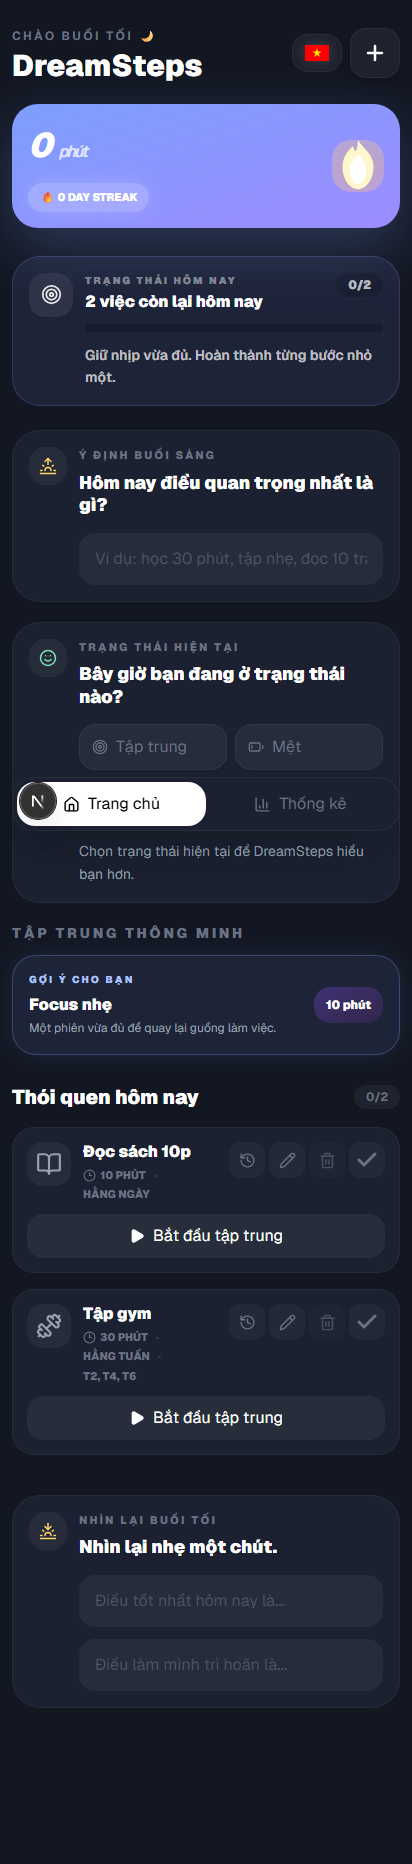
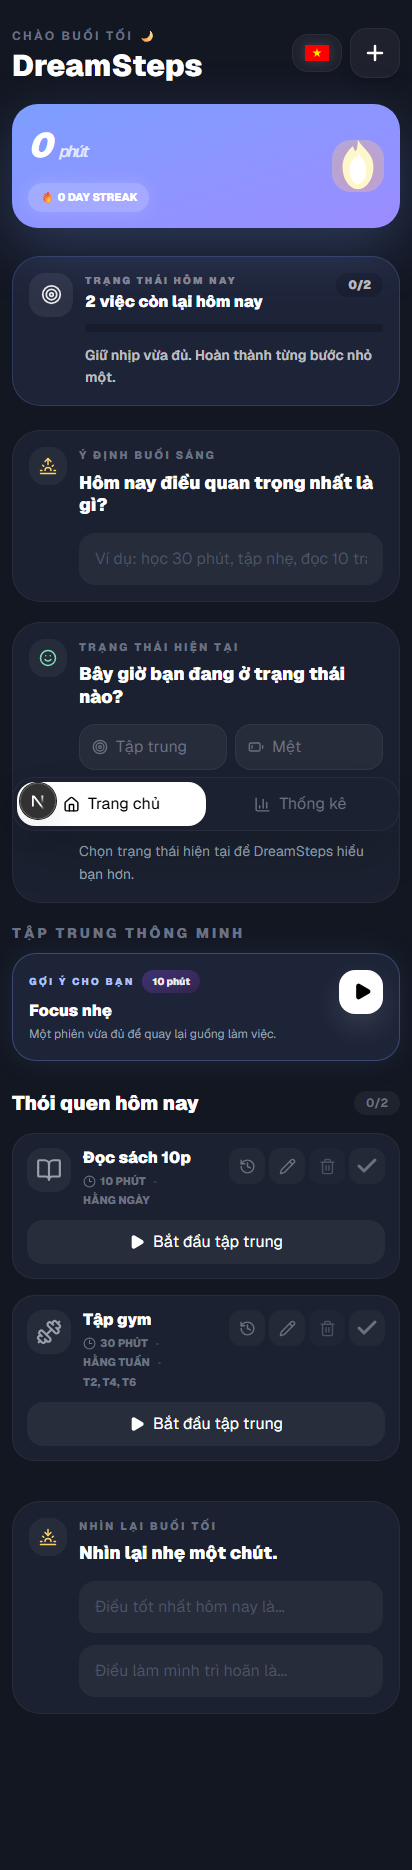
Polish smart focus CTA

diff --git a/components/SmartFocusCard.tsx b/components/SmartFocusCard.tsx
@@ -3,6 +3,7 @@ import { memo } from "react";
 
 
 import { motion } from "framer-motion";
+import { Play } from "lucide-react";
 
 type FocusSession = {
   id: string;
@@ -16,6 +17,7 @@ interface SmartFocusCardProps {
   title: string;
   suggestedLabel: string;
   minutesLabel: string;
+  actionLabel: string;
   suggestedSession: FocusSession;
   accentTextClassName: string;
   accentBorderClassName: string;
@@ -27,6 +29,7 @@ function SmartFocusCard({
   title,
   suggestedLabel,
   minutesLabel,
+  actionLabel,
   suggestedSession,
   accentTextClassName,
   accentBorderClassName,
@@ -35,7 +38,7 @@ function SmartFocusCard({
 }: SmartFocusCardProps) {
   return (
     <section className="mt-5 sm:mt-6">
-      <div className="mb-3 flex items-center justify-between sm:mb-4">
+      <div className="mb-2.5 flex items-center justify-between sm:mb-3">
         <h3 className="text-sm font-black uppercase tracking-[0.2em] text-gray-500">
           {title}
         </h3>
@@ -44,16 +47,26 @@ function SmartFocusCard({
       <motion.button
         whileTap={{ scale: 0.98 }}
         type="button"
+        aria-label={`${suggestedLabel}: ${suggestedSession.title}`}
+        title={`${actionLabel}: ${suggestedSession.title}`}
         onClick={onStartSuggested}
-        className={`w-full rounded-[24px] border ${accentBorderClassName} ${accentBgClassName} p-4 text-left shadow-[0_0_30px_rgba(124,158,255,0.1)] transition-all duration-700 sm:rounded-[30px] sm:p-5`}
+        className={`group w-full rounded-[24px] border ${accentBorderClassName} ${accentBgClassName} p-4 text-left shadow-[0_0_30px_rgba(124,158,255,0.1)] transition-all duration-700 hover:border-white/20 hover:bg-white/[0.08] sm:rounded-[30px] sm:p-5`}
       >
-        <div className="flex items-center justify-between gap-3">
+        <div className="flex items-start justify-between gap-3">
           <div className="min-w-0 flex-1">
-            <p
-              className={`text-[10px] font-black uppercase tracking-[0.22em] ${accentTextClassName}`}
-            >
-              {suggestedLabel}
-            </p>
+            <div className="flex flex-wrap items-center gap-2">
+              <p
+                className={`text-[10px] font-black uppercase tracking-[0.22em] ${accentTextClassName}`}
+              >
+                {suggestedLabel}
+              </p>
+
+              <span
+                className={`rounded-full bg-gradient-to-br ${suggestedSession.accent} px-2.5 py-1 text-[10px] font-black text-white/90`}
+              >
+                {suggestedSession.minutes} {minutesLabel}
+              </span>
+            </div>
 
             <h3 className="mt-2 text-base font-black leading-tight sm:text-xl">
               {suggestedSession.title}
@@ -64,10 +77,8 @@ function SmartFocusCard({
             </p>
           </div>
 
-          <div
-            className={`shrink-0 rounded-2xl bg-gradient-to-br ${suggestedSession.accent} px-3 py-2.5 text-xs font-black sm:px-4 sm:py-3 sm:text-sm`}
-          >
-            {suggestedSession.minutes} {minutesLabel}
+          <div className="flex h-11 w-11 shrink-0 items-center justify-center rounded-2xl bg-white text-black shadow-[0_12px_30px_rgba(255,255,255,0.12)] transition-transform group-hover:scale-105">
+            <Play size={19} fill="currentColor" className="ml-0.5" />
           </div>
         </div>
       </motion.button>

diff --git a/app/page.tsx b/app/page.tsx
@@ -2613,6 +2613,7 @@ export default function HomePage() {
                 
                 
                 minutesLabel={t.common.shortMinutes}
+                actionLabel={t.habits.startFocus}
                 
                 suggestedSession={suggestedSession}
                 